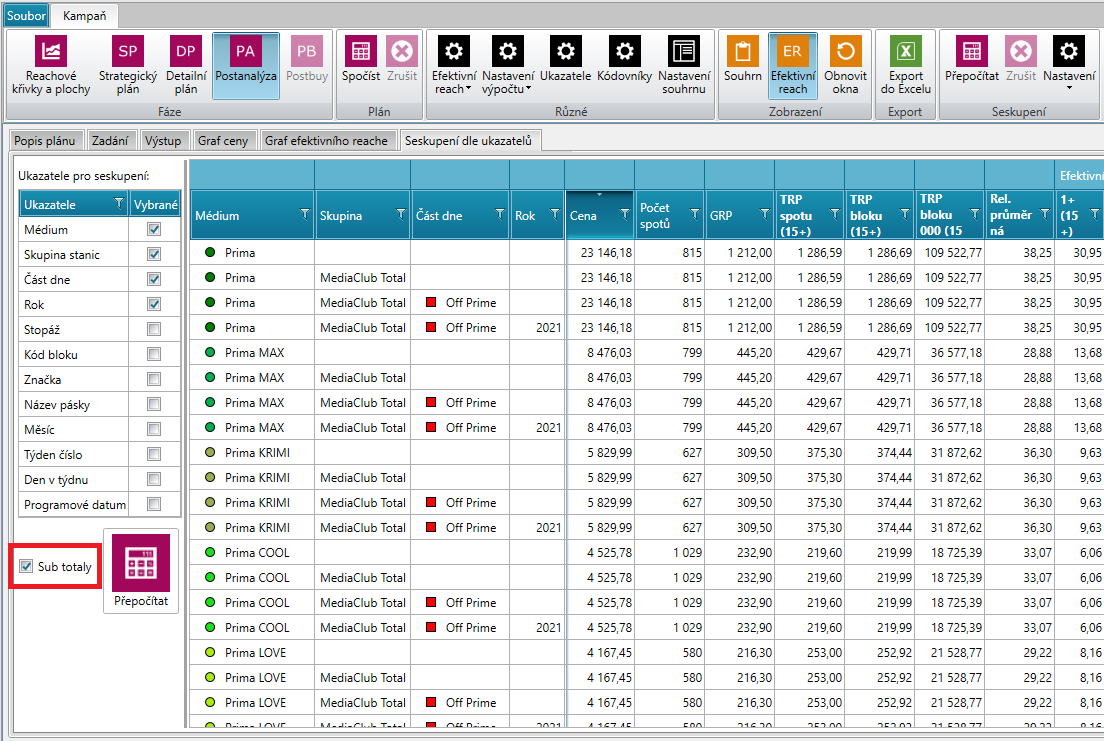
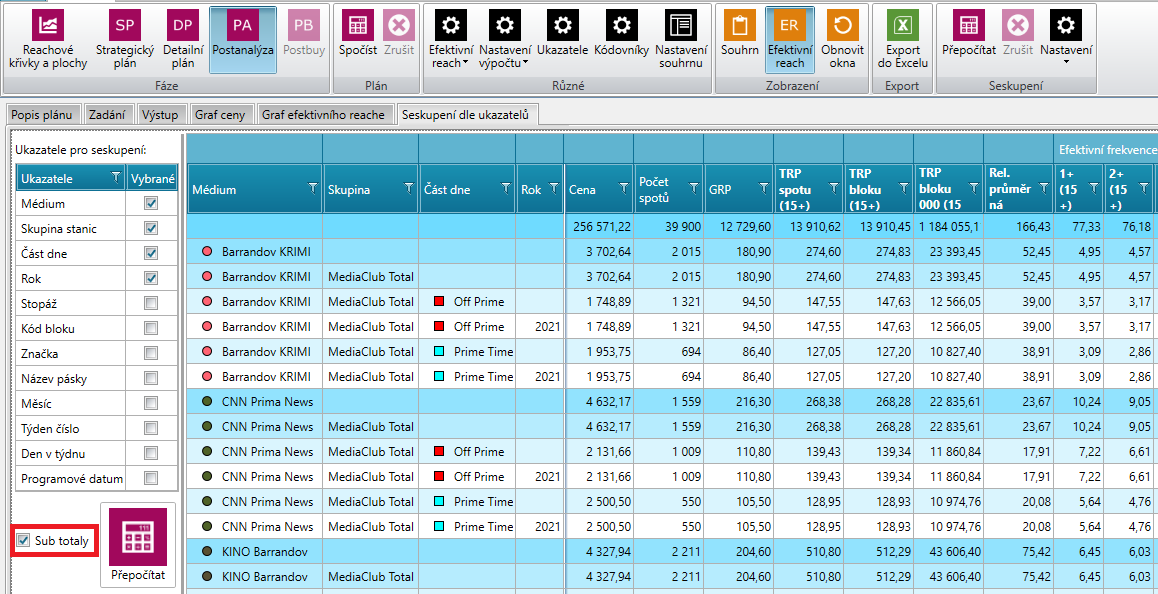
334v7 obrazky a text

diff --git a/_posts/1999-01-04-1.1.334.md b/_posts/1999-01-04-1.1.334.md
@@ -18,15 +18,13 @@ V zálože Definice křivek ve sloupci Bloků je nově upozornění na oříznut
 ![Výrazné omezení bundle]({{site.url}}/data/rcbundleomezen.png "Výrazné omezení bundle")
 
 ## <abbr title="Postanalýza">PA</abbr> - definovatelné ukazatele v Seskupení dle ukazatelů
-Do záložky Seskupení dle ukazatelů bylo přidáno okno Ukazatele, které funguje stejně jako na výstupu.
-
-Nyní lze v záložce Seskupení dle ukazatelů definovat počet histogramů a frekvencí k zobrazení, počet destinných míst a zapnutí výpočtu ukazatele pro všechny cílové skupiny.
+Do záložky Seskupení dle ukazatelů bylo přidáno okno Ukazatele, které funguje stejně jako na výstupu a nově lze definovat počet histogramů a frekvencí k zobrazení, počet destinných míst a zapnutí výpočtu ukazatele pro všechny cílové skupiny.
 
 ![definovatelné ukazatele]({{site.url}}/data/definovatelneukazatele.png "definovatelné ukazatele")
 
 
 ## <abbr title="Postanalýza">PA</abbr> - Sub totaly v Seskupení dle ukazatelů
-V záložce Seskupení dle ukazatelů je nyní možnost zobrazení sub totalových řádků.
+V záložce Seskupení dle ukazatelů je nyní možnost zobrazení sub totalových řádků, které počítají výstupy po jednotlivých ukazatelích seskupení.
 
 ![Sub totaly]({{site.url}}/data/subtotaly.png "Sub totaly")
 
